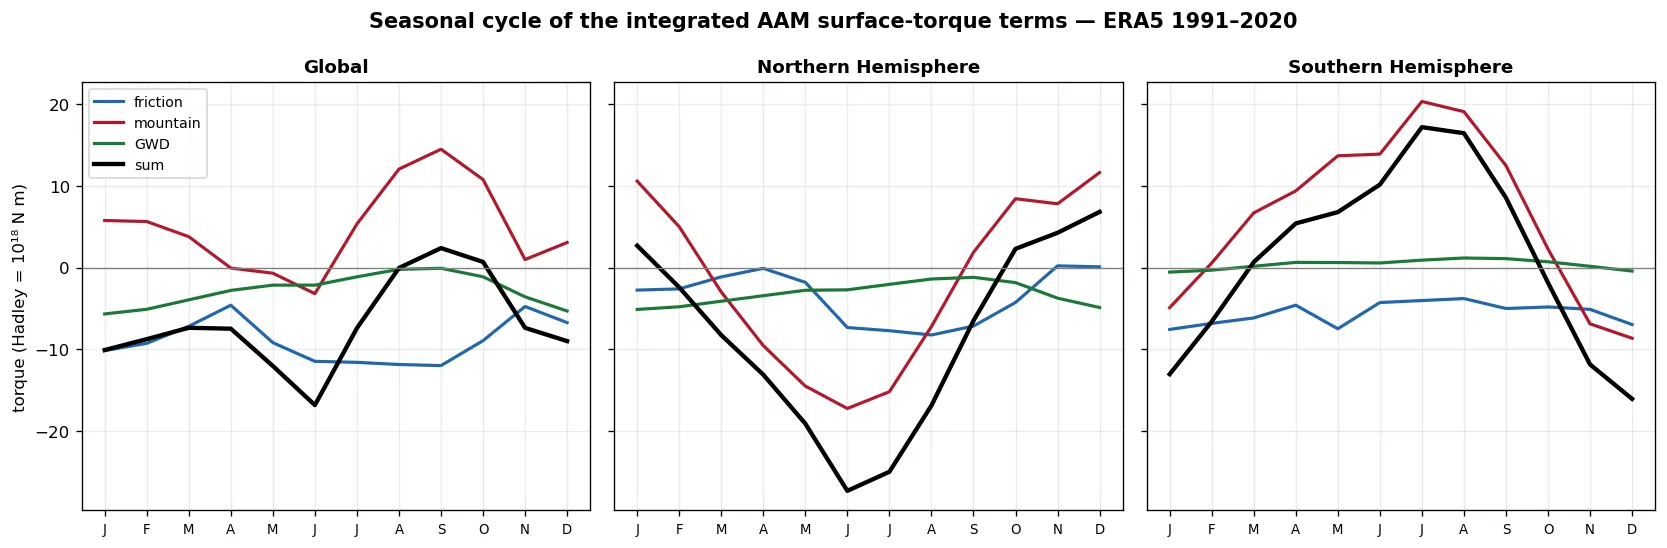
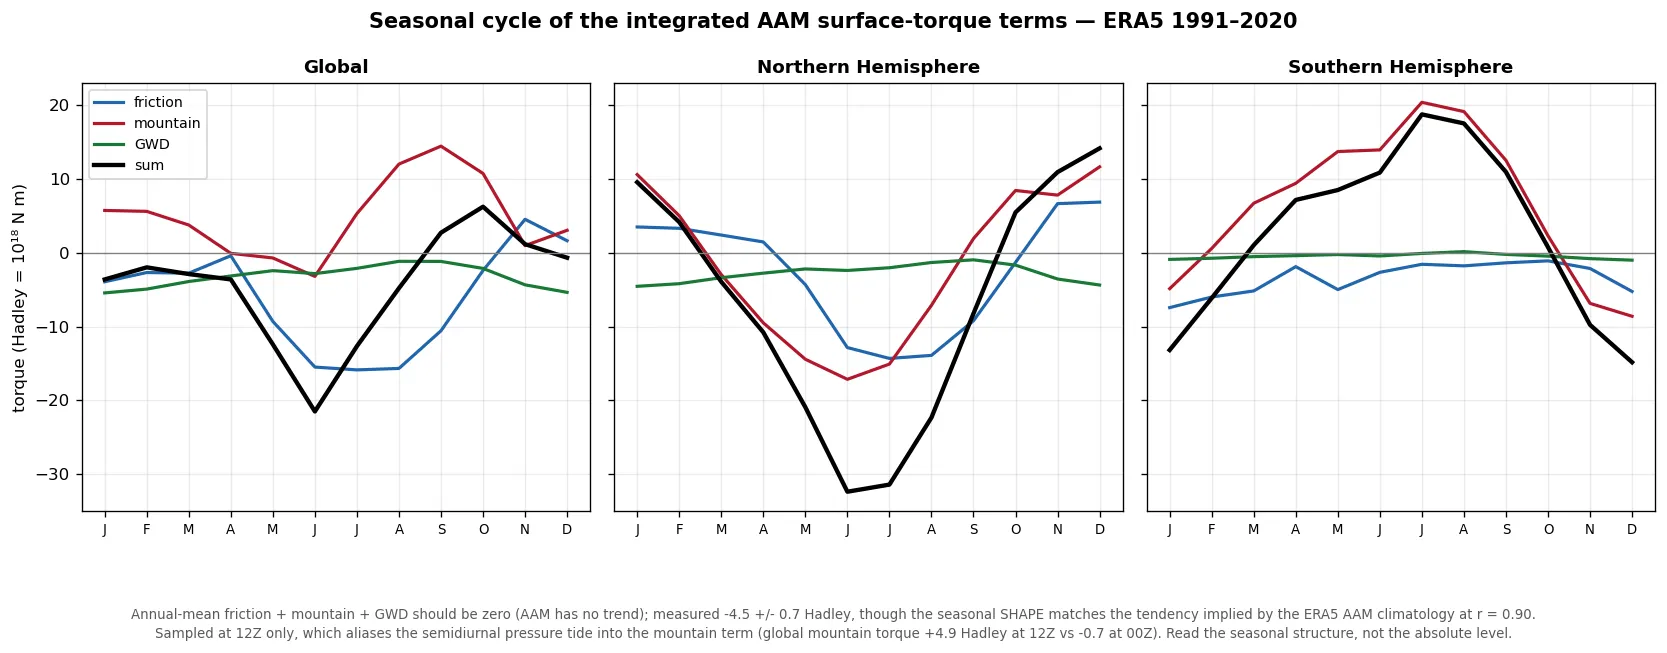
site update: state the measured limits of the torque budget
Claude-Session: https://claude.ai/code/session_01WKfrTN6ZTEdVjseqpkNxH5

diff --git a/enso-atmosphere.html b/enso-atmosphere.html
@@ -589,7 +589,8 @@
         <p>Atmospheric angular momentum only changes through torques the Earth exerts on the atmosphere. With $M$ the relative (wind) AAM, the budget has two resolved terms, <b>friction</b> (surface wind stress) and <b>mountain</b> (pressure on topography):</p>
         <p style="text-align:center;font-size:0.95rem">$$M=\frac{a^3}{g}\iiint u\cos^2\!\phi\;d\lambda\,d\phi\,dp,\qquad \frac{dM}{dt}=T_{\text{fric}}+T_{\text{mtn}}\;(+\,T_{\text{gw}})$$</p>
         <p style="text-align:center;font-size:0.95rem">$$T_{\text{mtn}}=-a^2\!\iint p_s\,\frac{\partial h_s}{\partial\lambda}\,\cos\phi\;d\lambda\,d\phi,\qquad T_{\text{fric}}=-a^3\!\iint \tau_\lambda\,\cos^2\!\phi\;d\lambda\,d\phi$$</p>
-        <p>The two panels show the torque <b>anomalies</b> (versus the ERA5 1991&ndash;2020 climatology, by day-of-year), so the standing El&nbsp;Ni&ntilde;o departure shows alongside the day-to-day synoptic systems. The grey contours are the surface-pressure anomaly, the field the torque uses (solid positive, dashed negative), so colours and contours read together. <b>Top, friction</b> ($\tau_\lambda\!\approx\!\rho\,C_d\,|V_{10}|\,u_{10}$): trade-wind and jet stress anomalies such as western-Pacific westerly bursts. <b>Bottom, mountain</b> (form drag $h_s\,\partial p_s/\partial\lambda$, the same net torque as $-p_s\,\partial h_s/\partial\lambda$): synoptic pressure systems crossing the Andes, Rockies, Himalaya/Tibet and Greenland. Insets are the &plusmn;60&deg; cos&phi;-weighted zonal-mean anomaly; AIFS-ENS ensemble mean of all 51 members, ~5&deg;. The sub-grid gravity-wave-drag term $T_{\text{gw}}$ appears only as the residual.</p>
+        <p>The two panels show the torque <b>anomalies</b> (versus the ERA5 1991&ndash;2020 climatology, by day-of-year), so the standing El&nbsp;Ni&ntilde;o departure shows alongside the day-to-day synoptic systems. The grey contours are the surface-pressure anomaly, the field the torque uses (solid positive, dashed negative), so colours and contours read together. <b>Top, friction</b> ($\tau_\lambda\!\approx\!\rho\,C_d\,|V_{10}|\,u_{10}$): trade-wind and jet stress anomalies such as western-Pacific westerly bursts. <b>Bottom, mountain</b> (form drag $h_s\,\partial p_s/\partial\lambda$, the same net torque as $-p_s\,\partial h_s/\partial\lambda$): synoptic pressure systems crossing the Andes, Rockies, Himalaya/Tibet and Greenland. Insets are the &plusmn;60&deg; cos&phi;-weighted zonal-mean anomaly; AIFS-ENS ensemble mean of all 51 members, ~5&deg;.</p>
+        <p><b>What the residual is, and isn&rsquo;t.</b> The mountain term is exact to the grid: computed at 5&deg; it reproduces the full-resolution ERA5 form-drag torque with $r=1.000$ and unit slope. The friction term is not &mdash; it uses a bulk stress with constant $\rho$ and $C_d$, and against ERA5&rsquo;s own turbulent surface stress (1991&ndash;2020) that approximation runs <b>+15 Hadley too positive in the mean and carries only ~70% of the true variability</b>, because one ocean-like drag coefficient under-weights the mid-latitude braking that happens over rough land. So the black curve&rsquo;s gap from $dM/dt$ is <b>not</b> gravity-wave drag: ERA5 puts $T_{\text{gw}}$ at about &minus;3 Hadley in the annual mean, several times smaller than that bulk-formula error. Read the residual as a closure term. The anomaly maps and the anomaly row are the trustworthy products, since they difference against an ERA5 climatology built with the identical bulk formula, so the offset cancels.</p>
       </div>
       <iframe data-deferred class="anim-embed torque" data-src="sst_anim.html?embed=1&amp;manifest=torque_manifest.json&amp;region=torque"
               title="AAM surface-torque anomaly animation (friction + mountain) over the AIFS-ENS forecast" loading="lazy"></iframe>

diff --git a/scripts/sst/pages/atmosphere.html b/scripts/sst/pages/atmosphere.html
@@ -245,7 +245,8 @@
         <p>Atmospheric angular momentum only changes through torques the Earth exerts on the atmosphere. With $M$ the relative (wind) AAM, the budget has two resolved terms, <b>friction</b> (surface wind stress) and <b>mountain</b> (pressure on topography):</p>
         <p style="text-align:center;font-size:0.95rem">$$M=\frac{a^3}{g}\iiint u\cos^2\!\phi\;d\lambda\,d\phi\,dp,\qquad \frac{dM}{dt}=T_{\text{fric}}+T_{\text{mtn}}\;(+\,T_{\text{gw}})$$</p>
         <p style="text-align:center;font-size:0.95rem">$$T_{\text{mtn}}=-a^2\!\iint p_s\,\frac{\partial h_s}{\partial\lambda}\,\cos\phi\;d\lambda\,d\phi,\qquad T_{\text{fric}}=-a^3\!\iint \tau_\lambda\,\cos^2\!\phi\;d\lambda\,d\phi$$</p>
-        <p>The two panels show the torque <b>anomalies</b> (versus the ERA5 1991&ndash;2020 climatology, by day-of-year), so the standing El&nbsp;Ni&ntilde;o departure shows alongside the day-to-day synoptic systems. The grey contours are the surface-pressure anomaly, the field the torque uses (solid positive, dashed negative), so colours and contours read together. <b>Top, friction</b> ($\tau_\lambda\!\approx\!\rho\,C_d\,|V_{10}|\,u_{10}$): trade-wind and jet stress anomalies such as western-Pacific westerly bursts. <b>Bottom, mountain</b> (form drag $h_s\,\partial p_s/\partial\lambda$, the same net torque as $-p_s\,\partial h_s/\partial\lambda$): synoptic pressure systems crossing the Andes, Rockies, Himalaya/Tibet and Greenland. Insets are the &plusmn;60&deg; cos&phi;-weighted zonal-mean anomaly; AIFS-ENS ensemble mean of all 51 members, ~5&deg;. The sub-grid gravity-wave-drag term $T_{\text{gw}}$ appears only as the residual.</p>
+        <p>The two panels show the torque <b>anomalies</b> (versus the ERA5 1991&ndash;2020 climatology, by day-of-year), so the standing El&nbsp;Ni&ntilde;o departure shows alongside the day-to-day synoptic systems. The grey contours are the surface-pressure anomaly, the field the torque uses (solid positive, dashed negative), so colours and contours read together. <b>Top, friction</b> ($\tau_\lambda\!\approx\!\rho\,C_d\,|V_{10}|\,u_{10}$): trade-wind and jet stress anomalies such as western-Pacific westerly bursts. <b>Bottom, mountain</b> (form drag $h_s\,\partial p_s/\partial\lambda$, the same net torque as $-p_s\,\partial h_s/\partial\lambda$): synoptic pressure systems crossing the Andes, Rockies, Himalaya/Tibet and Greenland. Insets are the &plusmn;60&deg; cos&phi;-weighted zonal-mean anomaly; AIFS-ENS ensemble mean of all 51 members, ~5&deg;.</p>
+        <p><b>What the residual is, and isn&rsquo;t.</b> The mountain term is exact to the grid: computed at 5&deg; it reproduces the full-resolution ERA5 form-drag torque with $r=1.000$ and unit slope. The friction term is not &mdash; it uses a bulk stress with constant $\rho$ and $C_d$, and against ERA5&rsquo;s own turbulent surface stress (1991&ndash;2020) that approximation runs <b>+15 Hadley too positive in the mean and carries only ~70% of the true variability</b>, because one ocean-like drag coefficient under-weights the mid-latitude braking that happens over rough land. So the black curve&rsquo;s gap from $dM/dt$ is <b>not</b> gravity-wave drag: ERA5 puts $T_{\text{gw}}$ at about &minus;3 Hadley in the annual mean, several times smaller than that bulk-formula error. Read the residual as a closure term. The anomaly maps and the anomaly row are the trustworthy products, since they difference against an ERA5 climatology built with the identical bulk formula, so the offset cancels.</p>
       </div>
       <iframe data-deferred class="anim-embed torque" data-src="sst_anim.html?embed=1&amp;manifest=torque_manifest.json&amp;region=torque"
               title="AAM surface-torque anomaly animation (friction + mountain) over the AIFS-ENS forecast" loading="lazy"></iframe>
